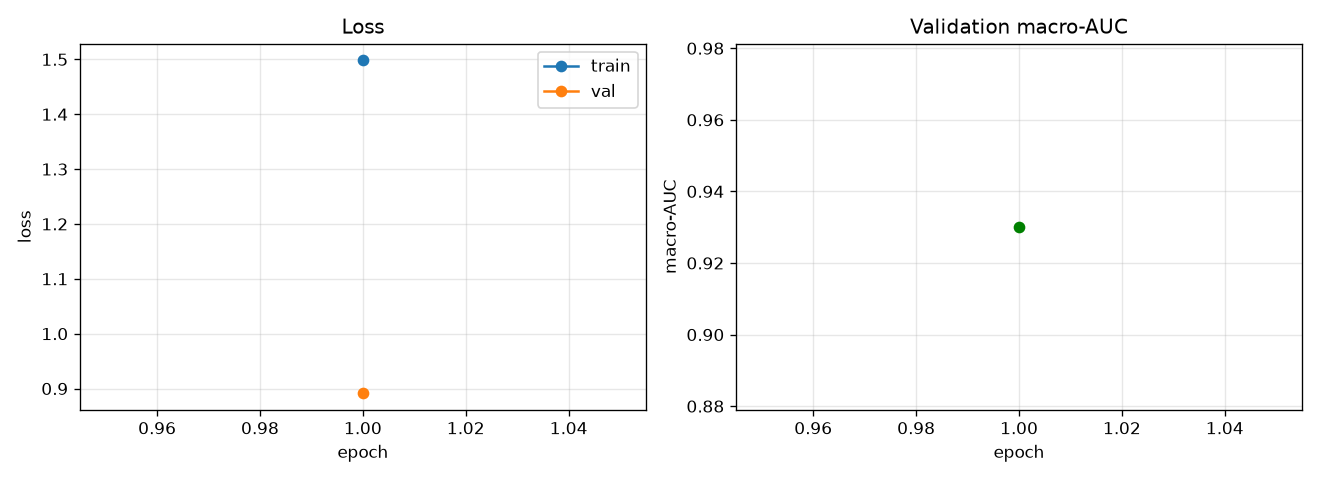
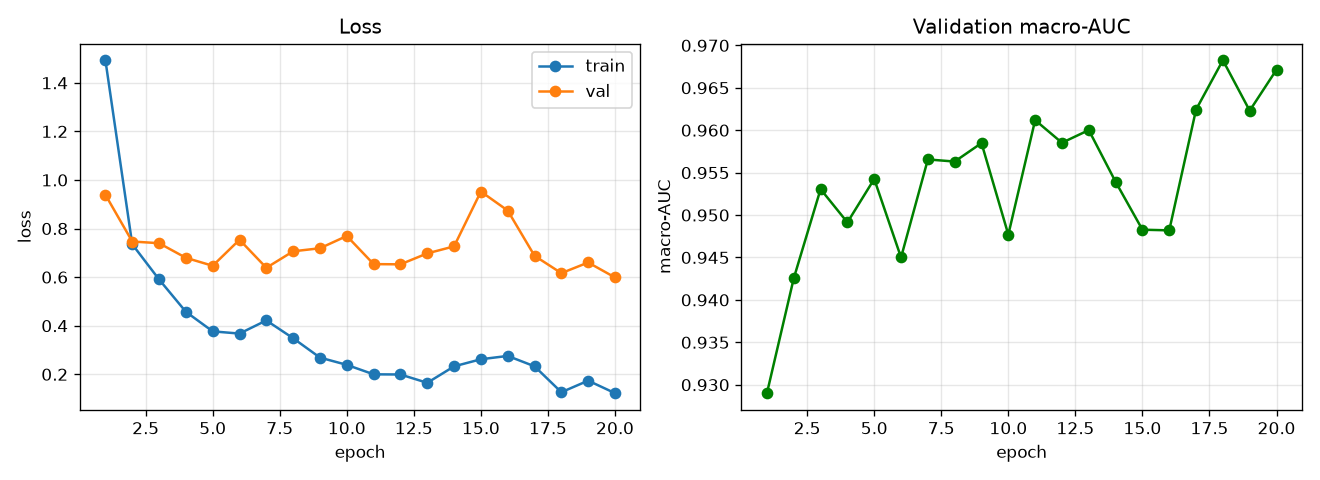
Clinical Evaluation (per-class metrics, confusion matrix, melanoma recall)

diff --git a/src/evaluate.py b/src/evaluate.py
@@ -1,0 +1,121 @@
+"""Clinical evaluation of the trained classifier on the held-out test set.
+
+Loads the best checkpoint and reports the metrics that matter for a medical model:
+per-class precision/recall/F1, per-class AUC, a confusion matrix, melanoma recall, and
+a malignant-vs-benign sensitivity/specificity. The headline macro-AUC (from training)
+tells us ranking quality; THIS tells us whether the model is clinically safe.
+
+Run: uv run python src/evaluate.py
+"""
+
+from __future__ import annotations
+
+import argparse
+from pathlib import Path
+
+import matplotlib
+
+matplotlib.use("Agg")
+
+import matplotlib.pyplot as plt
+import numpy as np
+import torch
+from sklearn.metrics import (
+    ConfusionMatrixDisplay,
+    classification_report,
+    confusion_matrix,
+    roc_auc_score,
+)
+from torch.utils.data import DataLoader
+
+from dataset import CLASSES, HAM10000Dataset
+from model import build_model
+
+ROOT = Path(__file__).resolve().parents[1]
+
+# Clinically malignant / pre-malignant classes (the ones we must not miss).
+MALIGNANT = {"mel", "bcc", "akiec"}
+
+
+def get_device() -> str:
+    if torch.backends.mps.is_available():
+        return "mps"
+    if torch.cuda.is_available():
+        return "cuda"
+    return "cpu"
+
+
[email redacted]_grad()
+def collect_predictions(model, loader, device) -> tuple[np.ndarray, np.ndarray]:
+    """Run the model over a loader; return (probs [N,7], true_labels [N])."""
+    model.eval()
+    probs_list, labels_list = [], []
+    for images, labels in loader:
+        probs = torch.softmax(model(images.to(device)), dim=1)
+        probs_list.append(probs.cpu())
+        labels_list.append(labels)
+    return torch.cat(probs_list).numpy(), torch.cat(labels_list).numpy()
+
+
+def main() -> None:
+    parser = argparse.ArgumentParser()
+    parser.add_argument("--backbone", default="efficientnet_b0")
+    parser.add_argument("--ckpt", default=None)
+    parser.add_argument("--batch-size", type=int, default=64)
+    args = parser.parse_args()
+
+    device = get_device()
+    ckpt = Path(args.ckpt) if args.ckpt else ROOT / "checkpoints" / f"{args.backbone}_best.pt"
+
+    test_loader = DataLoader(
+        HAM10000Dataset("test"), batch_size=args.batch_size, num_workers=2
+    )
+    # pretrained=False: we immediately overwrite weights with our checkpoint anyway.
+    model = build_model(len(CLASSES), backbone=args.backbone, pretrained=False).to(device)
+    model.load_state_dict(torch.load(ckpt, map_location=device, weights_only=True))
+
+    probs, labels = collect_predictions(model, test_loader, device)
+    preds = probs.argmax(axis=1)
+
+    # --- Per-class precision / recall / F1 ---
+    print("Per-class report (test set):")
+    print(classification_report(labels, preds, target_names=CLASSES, digits=3))
+
+    # --- Per-class one-vs-rest AUC ---
+    print("Per-class AUC (one-vs-rest):")
+    for i, name in enumerate(CLASSES):
+        auc = roc_auc_score((labels == i).astype(int), probs[:, i])
+        print(f"  {name:6s} {auc:.3f}")
+
+    # --- Melanoma recall: the single most important clinical number ---
+    mel = CLASSES.index("mel")
+    mel_recall = ((preds == mel) & (labels == mel)).sum() / (labels == mel).sum()
+    print(f"\nMelanoma recall (sensitivity): {mel_recall:.3f}")
+
+    # --- Collapse to malignant vs benign and report sensitivity/specificity ---
+    mal_idx = [CLASSES.index(c) for c in MALIGNANT]
+    true_mal = np.isin(labels, mal_idx)
+    pred_mal = np.isin(preds, mal_idx)
+    tp = int((pred_mal & true_mal).sum())
+    fn = int((~pred_mal & true_mal).sum())
+    tn = int((~pred_mal & ~true_mal).sum())
+    fp = int((pred_mal & ~true_mal).sum())
+    print(
+        f"Malignant-vs-benign: sensitivity {tp / (tp + fn):.3f} | "
+        f"specificity {tn / (tn + fp):.3f}  (FN={fn} missed malignant)"
+    )
+
+    # --- Row-normalized confusion matrix (diagonal = per-class recall) ---
+    cm = confusion_matrix(labels, preds, normalize="true")
+    disp = ConfusionMatrixDisplay(cm, display_labels=CLASSES)
+    fig, ax = plt.subplots(figsize=(7, 6))
+    disp.plot(ax=ax, cmap="Blues", colorbar=False, values_format=".2f", xticks_rotation=45)
+    ax.set_title("Confusion matrix (row-normalized = recall)")
+    fig.tight_layout()
+    out = ROOT / "plots" / "confusion_matrix.png"
+    fig.savefig(out, dpi=120)
+    print(f"\nSaved confusion matrix to {out}")
+
+
+if __name__ == "__main__":
+    main()

diff --git a/RESEARCH_LOG.md b/RESEARCH_LOG.md
@@ -113,8 +113,43 @@ explainable — and so the thinking transfers to future projects.
      "always predict nv" strategy, trading majority-class accuracy for minority recall.
      → Confirms accuracy is the wrong headline metric; need per-class recall (M5) to verify
      melanoma is actually being caught.
-- **Status:** smoke-test verified; full multi-epoch run pending (local ~35min or cloud GPU).
+- **Status:** smoke-test verified.
 - **To test later:** weighted vs unweighted loss (does accuracy rise but minority recall fall?).
+
+### F4.2 — Full 20-epoch run (local MPS, seed 42)
+- **Result:** best epoch **18** (val macro-AUC 0.9682). **TEST macro-AUC 0.9609**,
+  accuracy 0.820, loss 0.779. Checkpoint: `checkpoints/efficientnet_b0_best.pt` (16 MB).
+- **Why it matters:**
+  - macro-AUC 0.961 is competitive with published HAM10000 baselines.
+  - **val→test gap only 0.007** → strong evidence the lesion-level split (F2.1) prevented
+    leakage; the test estimate is trustworthy.
+  - Curve shows mild overfitting (train_loss≪val_loss late) but AUC-checkpointing kept the
+    best (epoch 18) model, not the overfit final one.
+- **Status:** verified. Headline number is AUC; per-class clinical audit still needed (M5).
+
+---
+
+## Milestone 5 — Clinical evaluation
+
+### F5.1 — High AUC hides inadequate melanoma sensitivity (operating-point problem)
+- **Finding (test set, best ckpt):**
+  - Per-class AUC strong everywhere (mel 0.921, others 0.94–0.99).
+  - **But melanoma recall at default argmax = 0.601** — 40% of melanomas missed; **27%
+    misclassified as `nv` (benign mole)**.
+  - Malignant-vs-benign: sensitivity 0.750, specificity 0.911, **74 missed malignancies**.
+  - `nv` recall 0.911 (easy majority). Minority classes absorbed into similar larger ones.
+- **Why it matters:** macro-AUC 0.96 looked clinically excellent but is misleading at the
+  decision level. The model *ranks* melanoma well (AUC 0.92) yet *decides* poorly at the
+  default threshold — a classic ranking-vs-operating-point gap. Missing melanoma is the
+  highest-cost error, so this is a safety blocker, not a tuning nicety.
+- **Decision / next:** Don't retrain blindly — **tune the decision threshold** to lift
+  melanoma/malignant sensitivity (accepting lower specificity), using an ROC analysis on
+  the val set; also check **probability calibration**. *(M5 chunk 2)*
+- **Status:** finding recorded; remediation pending.
+
+### Transferable principle added
+5. **A great aggregate metric can hide a fatal per-slice failure.** Always disaggregate
+   (per-class, per-subgroup) and evaluate at the *decision* threshold, framed by real costs.
 
 ---
 